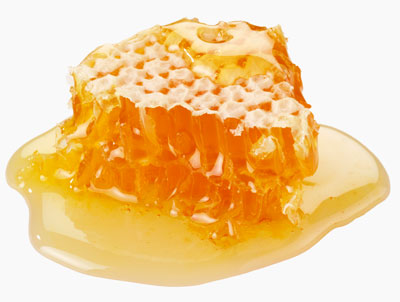
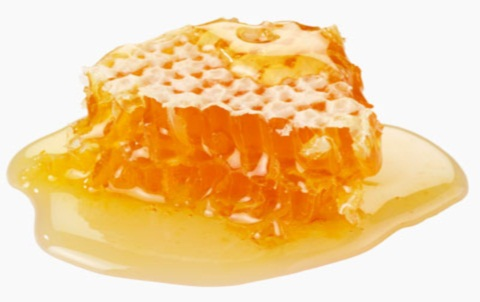
One more image update

diff --git a/index.html b/index.html
@@ -146,7 +146,7 @@ background-color:#eedd82;
       </div>
       <div class="row-fluid pitch">
         <div class="span5 offset1 video">
-          <img class="img-polaroid" src="https://github.com/LeshaG/bitstarter/blob/12fbc4c8dfd98a773ca335c6571d28e88c635a25/images/med.jpg?raw=true">
+          <img class="img-polaroid" src="https://github.com/LeshaG/bitstarter/blob/f3f3a0c469c10137e9490f0e9c60bfe92075670d/images/med.jpg?raw=true">
         </div>
 
         <!-- We define a new 'actions' div to contain statistics, order, and share buttons.-->
